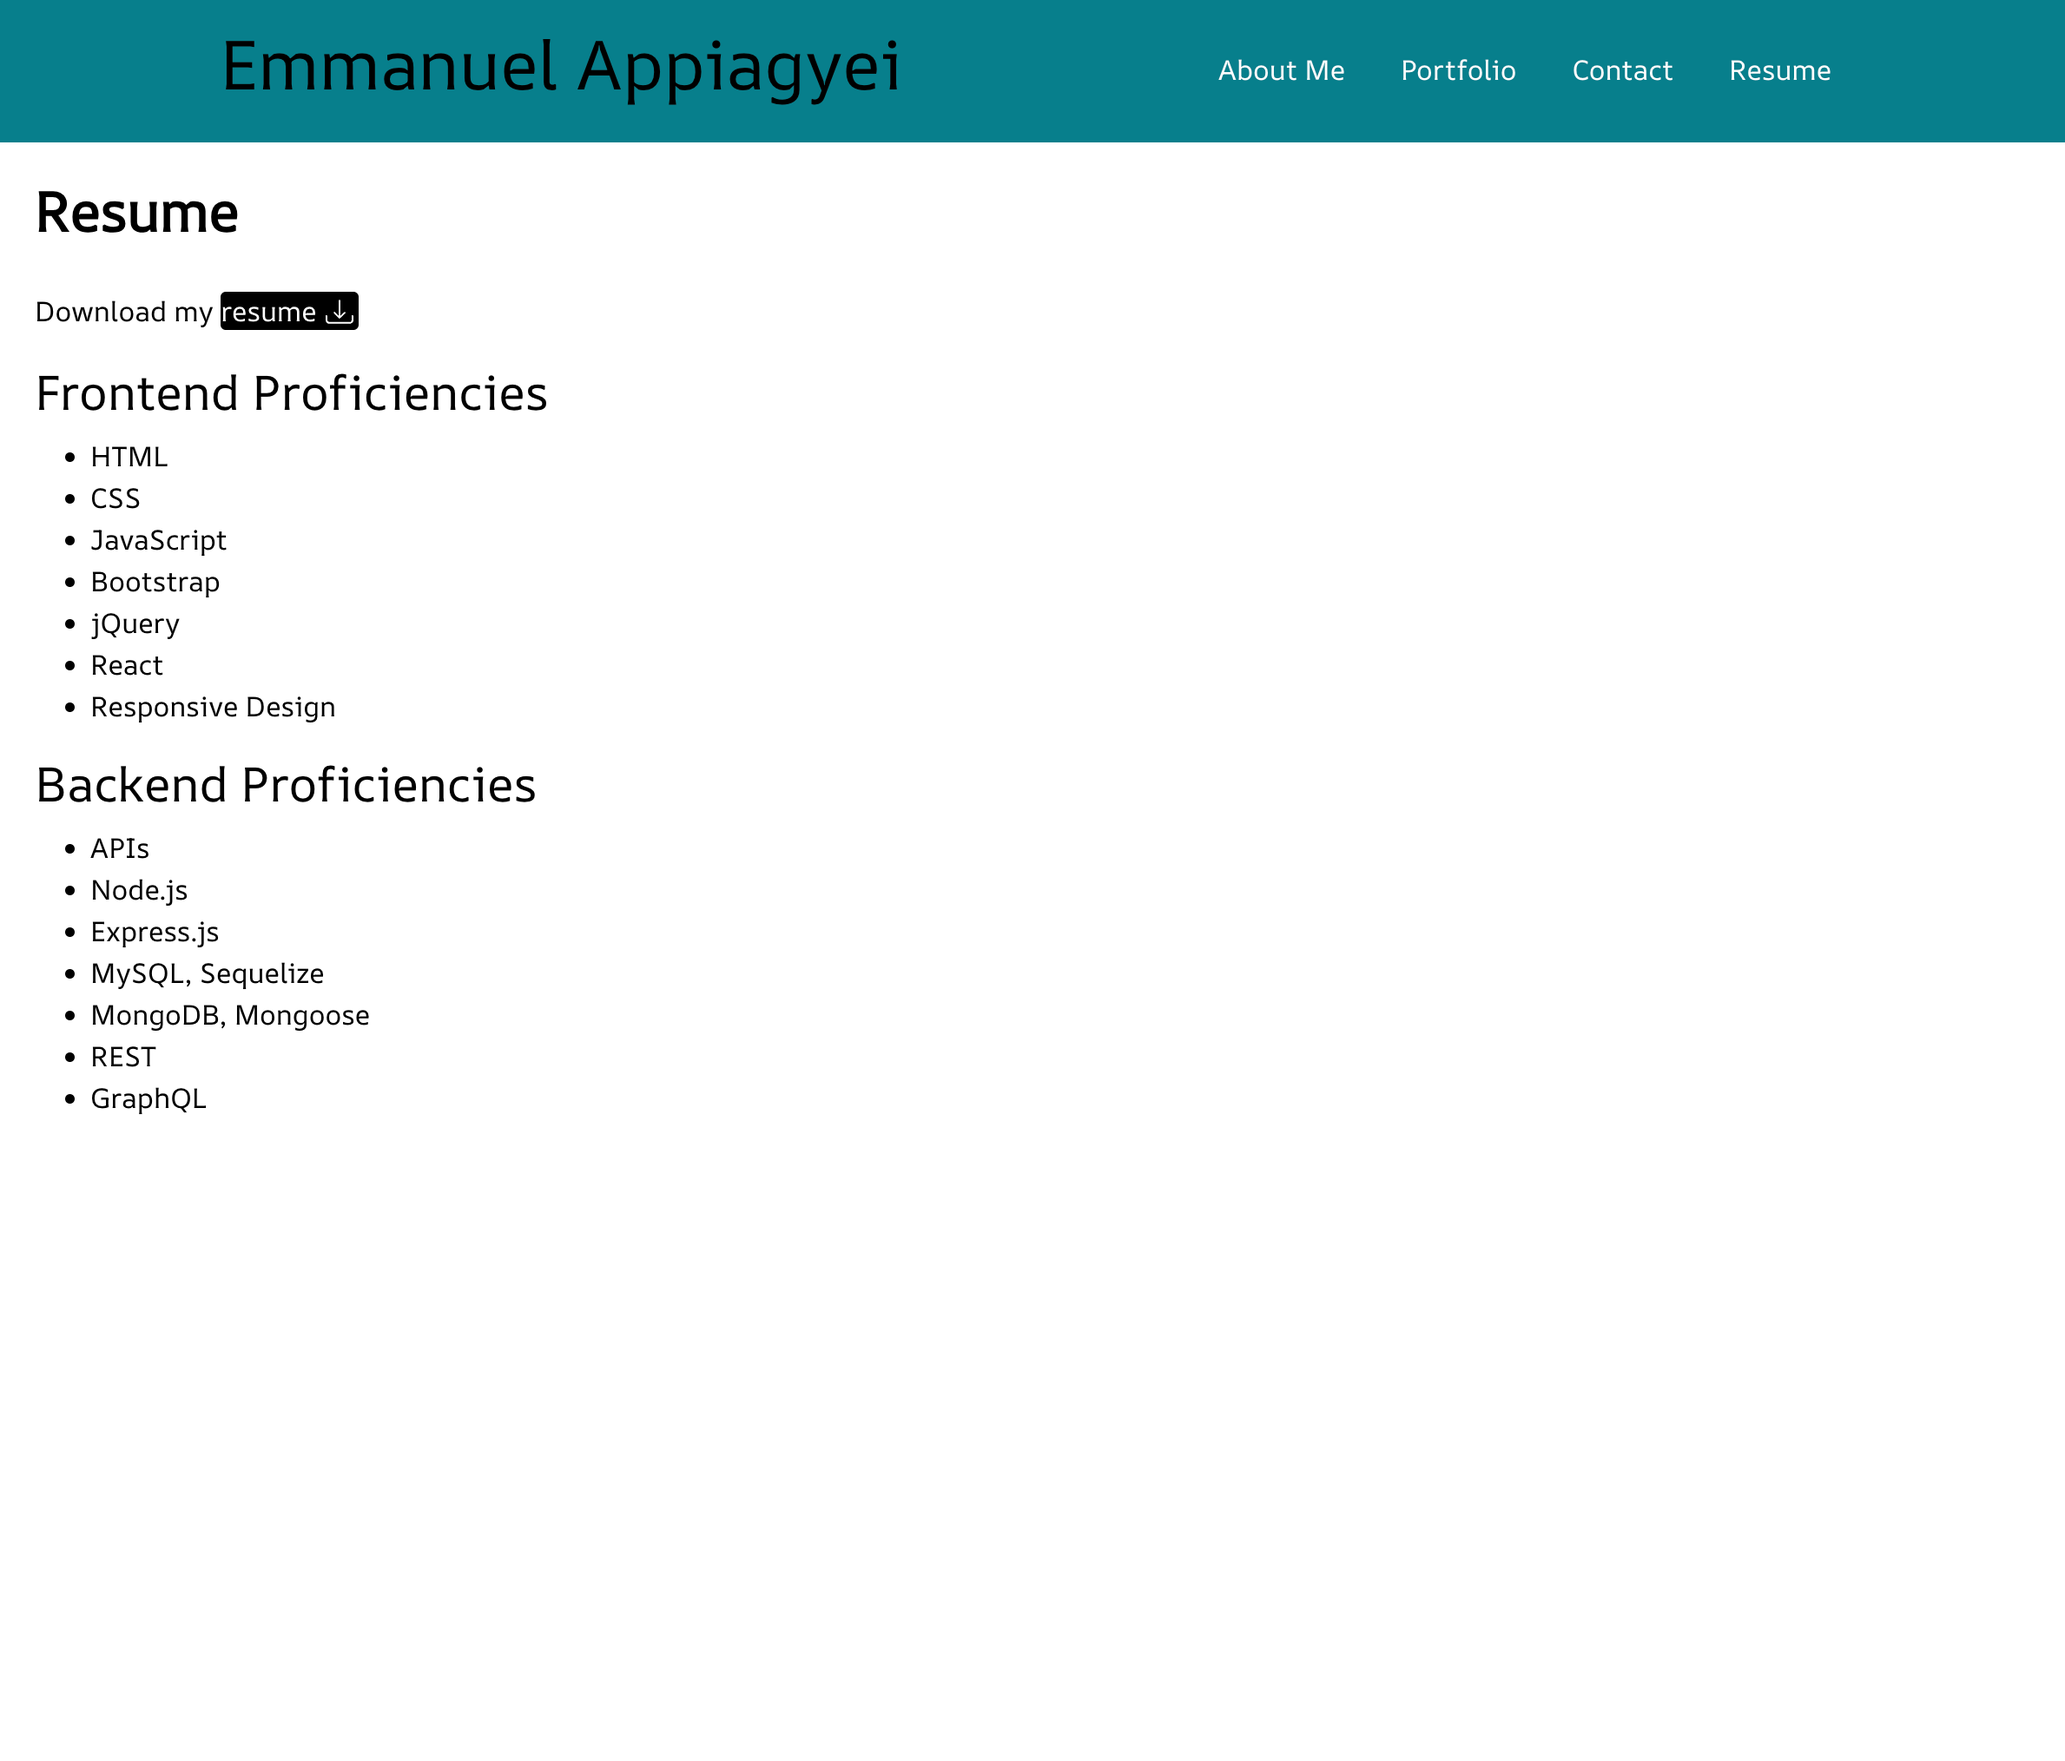
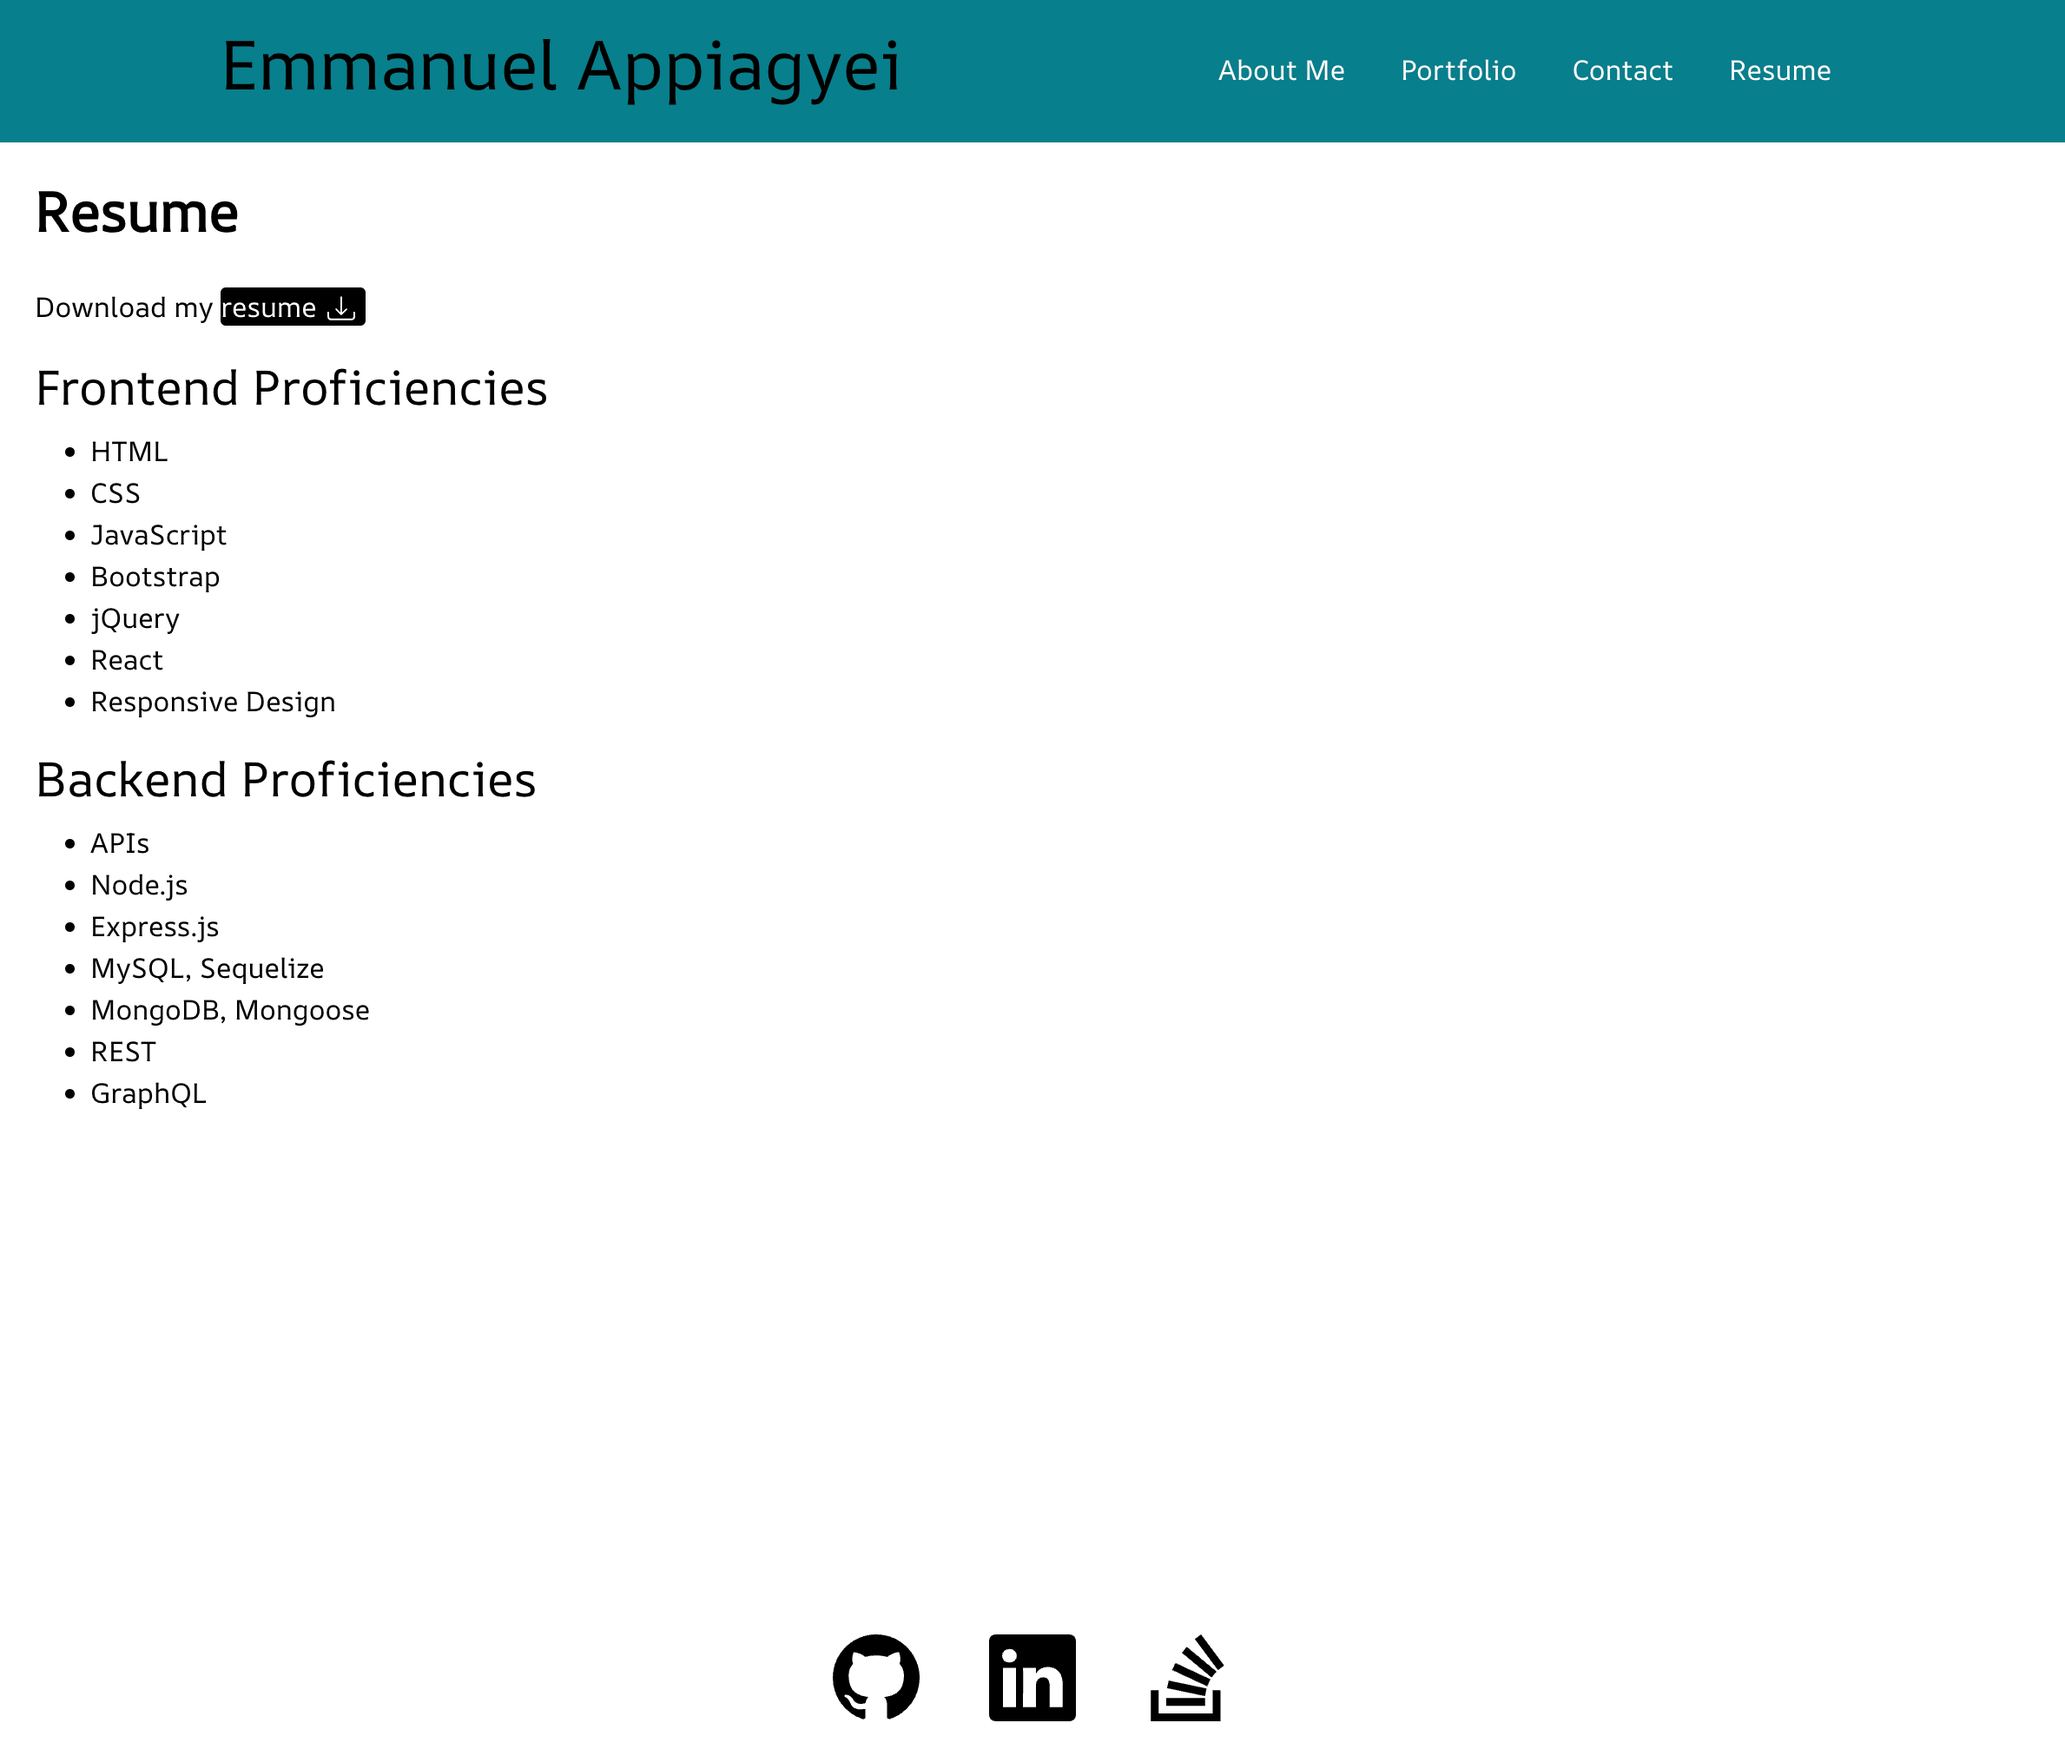
fixed footer, and updated readme

diff --git a/my-portfolio/src/components/Resume.jsx b/my-portfolio/src/components/Resume.jsx
@@ -18,7 +18,7 @@ function Resume() {
                 width="16"
                 height="16"
                 fill="currentColor"
-                className="bi bi-download"
+                className=" download bi-download"
                 viewBox="0 0 16 16"
               >
                 <path d="M.5 9.9a.5.5 0 0 1 .5.5v2.5a1 1 0 0 0 1 1h12a1 1 0 0 0 1-1v-2.5a.5.5 0 0 1 1 0v2.5a2 2 0 0 1-2 2H2a2 2 0 0 1-2-2v-2.5a.5.5 0 0 1 .5-.5z" />

diff --git a/my-portfolio/src/styles/Resume.css b/my-portfolio/src/styles/Resume.css
@@ -15,12 +15,12 @@
   margin-bottom: 20px;
 }
 
-/* Styling for elements with class "bi" */
-.bi {
+/* Styling for elements with class "download" */
+.download {
   fill: white !important;
   font-size: 20px;
   font-weight: bold;
-  margin-left: 5px;
+  margin-left: 3px;
   margin-right: 3px;
 }
 
